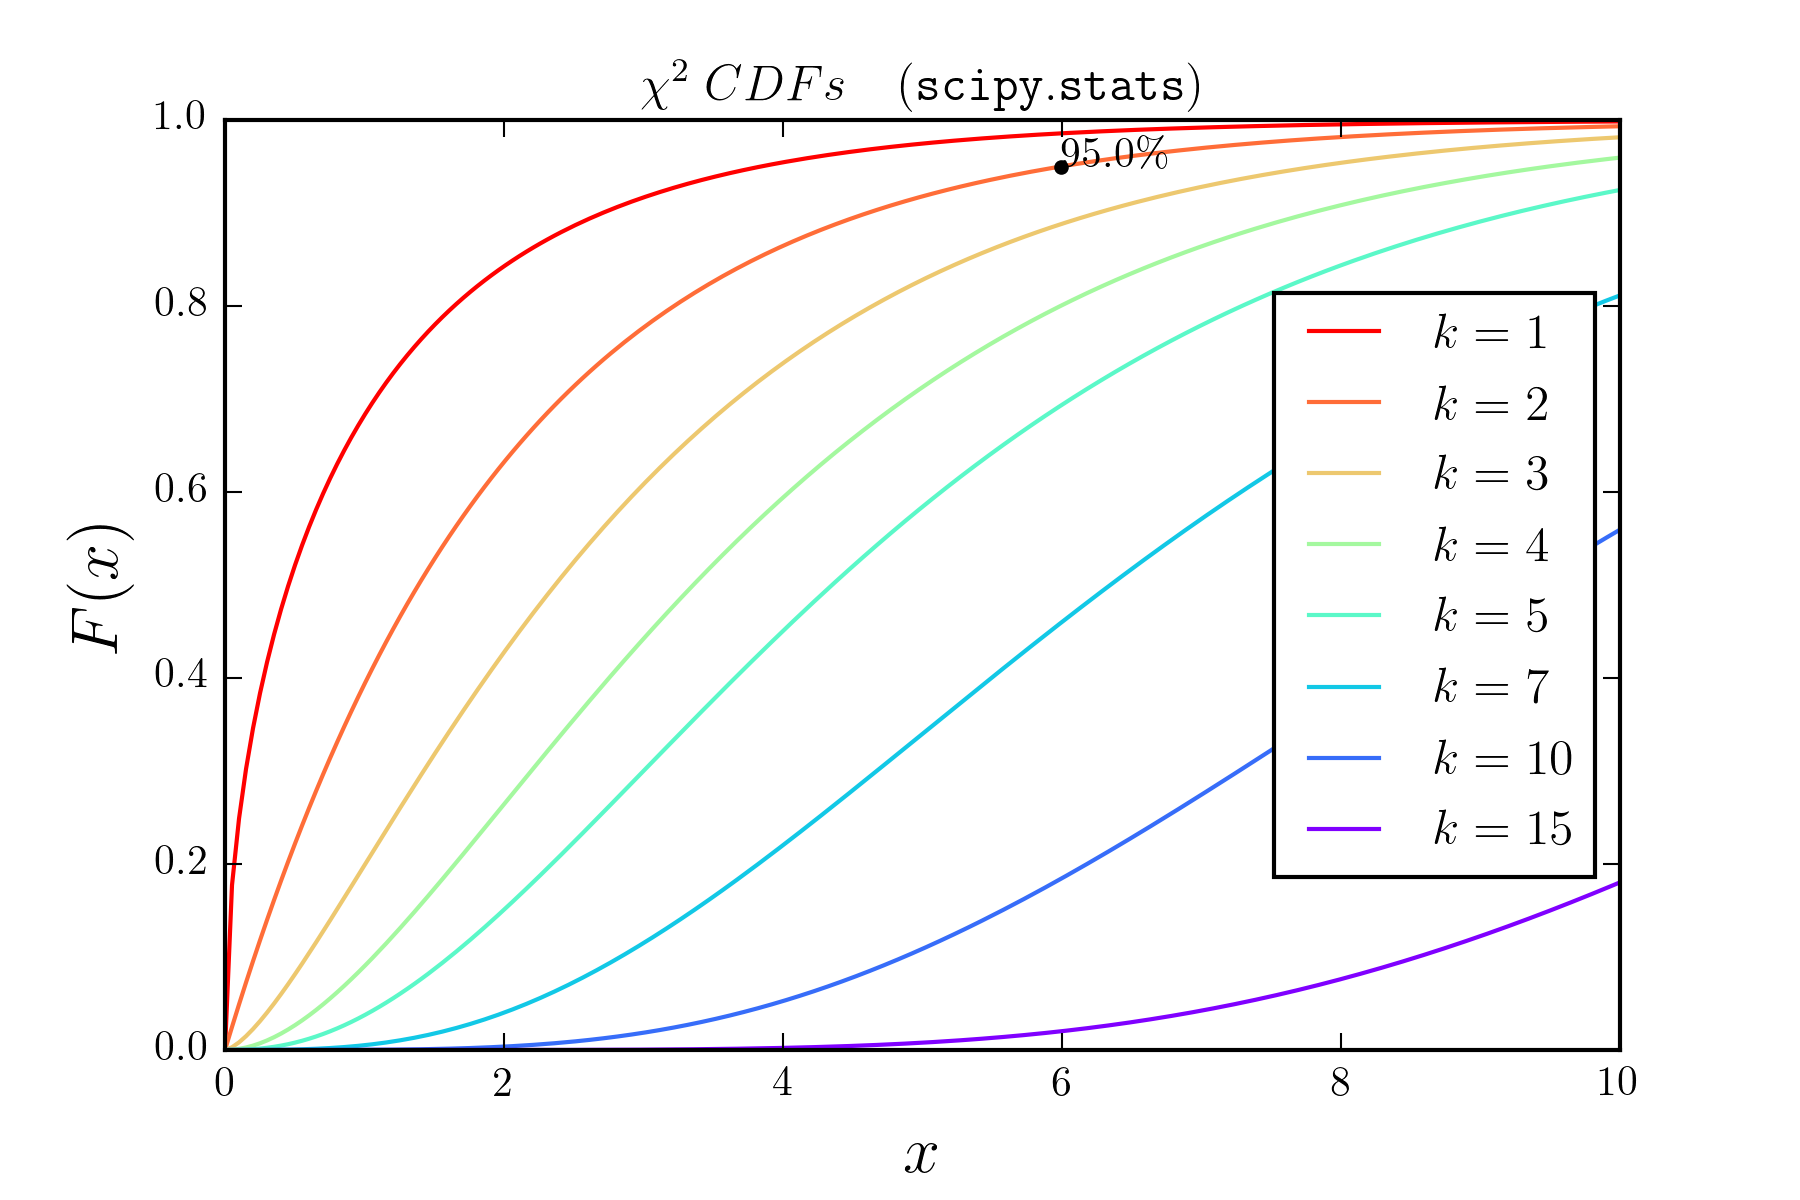
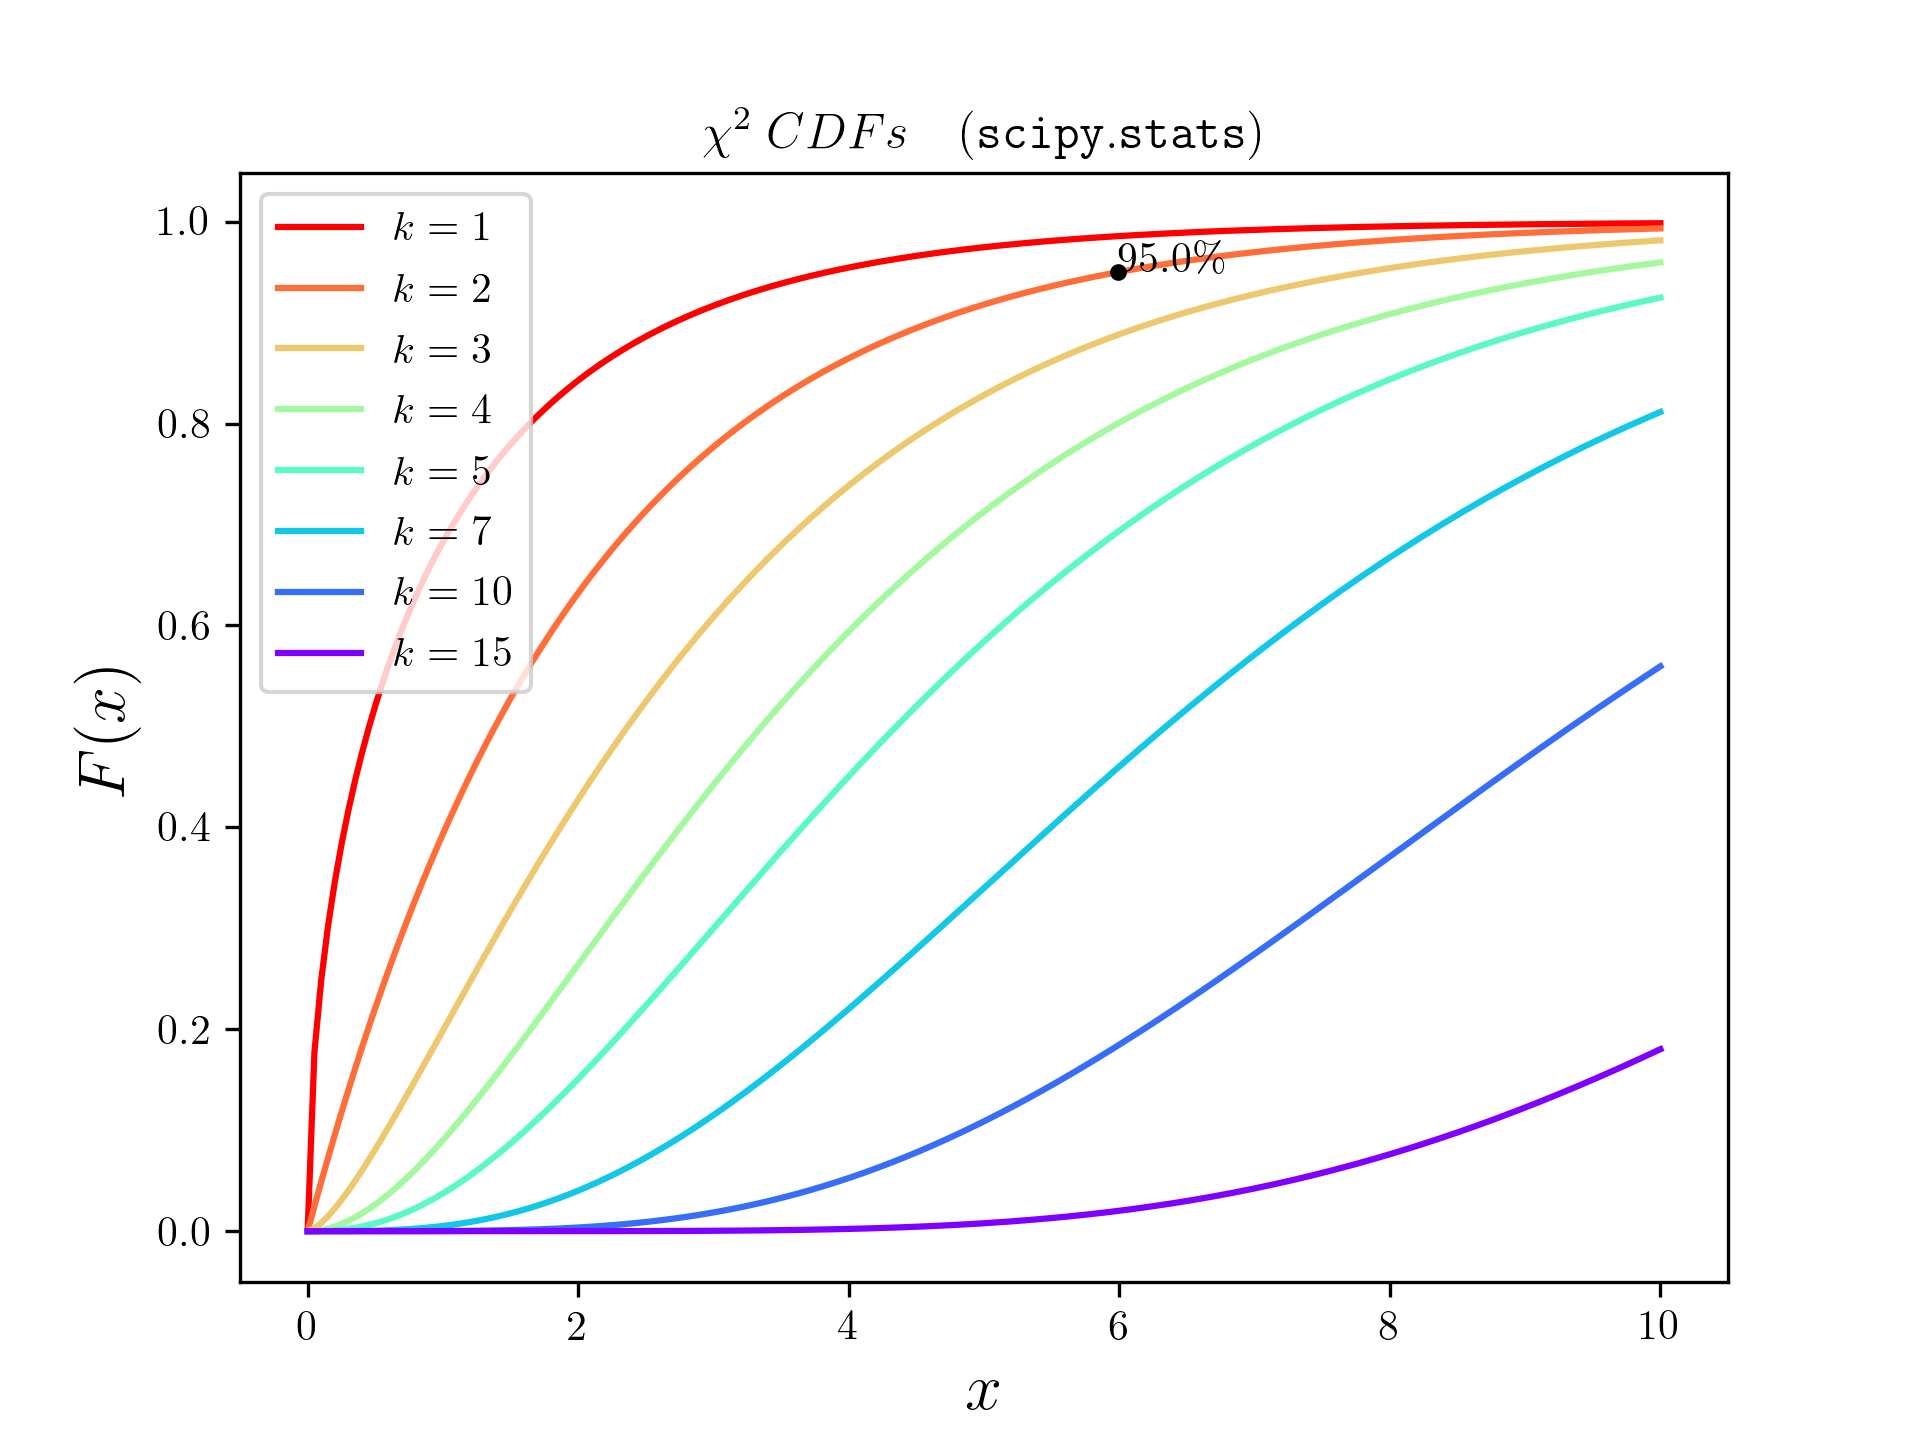
cleaning up chi-squared

diff --git a/chi_squared.py b/chi_squared.py
@@ -1,10 +1,6 @@
 # -*- coding: utf-8 -*-
 """
 script that explores the chi-squared distribution
-
-Created on Fri Jan 31 00:51:31 2020
-
-@author: Kedar
 """
 
 import numpy as np
@@ -13,17 +9,20 @@ from scipy.stats import chi2
 from scipy.optimize import fsolve
 from matplotlib import pyplot as plt
 from matplotlib import rc, cm
-plt.ioff()
 import webbrowser
 from distutils.spawn import find_executable
+
+plt.ioff()
 if find_executable('latex'):
     rc('text', usetex=True)
-#-----------------------------------------------------------------------------#
+
+
+# --------------------------------------------------------------------------- #
 def chi_squared_pdf(x, k):
-    '''
+    """
     this function computes discrete values of the pdf corresponding to the chi-
     squared distribution with k degrees of freedom for the values, x
-    '''
+    """
     # initialize an array of zeroes of the same length as x
     pdf = np.zeros_like(x)
     # run through the array and compute the value of the pdf
@@ -31,69 +30,77 @@ def chi_squared_pdf(x, k):
         # treat positive and negative values appropriately
         if x[i] > 0:
             # evaluate the pdf formula
-            pdf[i] = x[i]**(k/2 - 1)*np.exp(-x[i]/2)/(2**(k/2)*gamma(k/2))
+            pdf[i] = x[i] ** (k / 2 - 1) * np.exp(-x[i] / 2) / (
+                        2 ** (k / 2) * gamma(k / 2))
         else:
             # for negative values, the pdf is zero, the initialized value
             pass
     # return the probability values
     return pdf
-#-----------------------------------------------------------------------------#
+
+
+# --------------------------------------------------------------------------- #
 def chi_squared_cdf(x, k):
-    '''
+    """
     this function computes discrete values of the cdf corresponding to the chi-
-    squared distribution with k degrees of freedom for the values, x. this is 
-    the same as the regularized gamma function (i.e. the lower incomplete 
-    gamma function divided by the gamma function). recall: cdf(x) is the 
+    squared distribution with k degrees of freedom for the values, x. this is
+    the same as the regularized gamma function (i.e. the lower incomplete
+    gamma function divided by the gamma function). recall: cdf(x) is the
     probability that the random variable being modeled is less than or equal to
     x
-    '''
+    """
     # compute the value of the regularized gamma function. this is the cdf
-    cdf = gammainc(k/2, x/2)
+    cdf = gammainc(k / 2, x / 2)
     # return the cdf values
     return cdf
-#-----------------------------------------------------------------------------#
+
+
+# --------------------------------------------------------------------------- #
 def cdf_root_function(x, k, F_desired):
-    '''
-    this is a function for feeding to fsolve to find root, x, in the cdf of the 
-    chi-squared distribution with k degrees of freedom for a desired 
-    cummulative probability, F_desired
-    '''
+    """
+    this is a function for feeding to fsolve to find root, x, in the cdf of the
+    chi-squared distribution with k degrees of freedom for a desired
+    cumulative probability, F_desired
+    """
     # compute the root equation
     return chi_squared_cdf(x, k) - F_desired
-#-----------------------------------------------------------------------------#   
+
+
+# --------------------------------------------------------------------------- #
+# noinspection PyTypeChecker
 def main():
-    '''
+    """
     main routine
-    '''
+    """
     # create some abscissa values
     x = np.linspace(0, 10, 200)
-    
+
     # compute the pdfs of the chi-squared dist. for a few degrees of freedom
-    ks = [1,2,3,4,5,7,10,15]       # degrees of freedom to investigate
+    ks = [1, 2, 3, 4, 5, 7, 10, 15]  # degrees of freedom to investigate
     pdfs = [chi_squared_pdf(x, k) for k in ks]
-    
+
     # do the same thing using the the scipy function
     pdfs_scipy = [chi2.pdf(x, k) for k in ks]
-    
+
     # compute the cdfs of the chi-squared dist. for a few degrees of freedom
     cdfs = [chi_squared_cdf(x, k) for k in ks]
-    
+
     # do the same thing using the the scipy function
     cdfs_scipy = [chi2.cdf(x, k) for k in ks]
-    
+
     # find the right-hand-side constant for an F_desired-percentage confidence
     # interval for an uncorrelated 2D dataset
-    k = 2                       # dimensions of the ellipsoid
-    confidence_prob = 0.95      # desired confidence interval
+    k = 2  # dimensions of the ellipsoid
+    confidence_prob = 0.95  # desired confidence interval
     ellipse_rhs = fsolve(cdf_root_function, 0.0, args=(k, confidence_prob))[0]
-    
+
     # print the ellipsoid constant found
-    print('\n\t' + 60*'-')
+    print('\n\t' + 60 * '-')
     print('\n\tRHS constant computation: %d-dimensional ellipsoid' % k)
     print('\n\t  desired confidence:\t\t', confidence_prob)
     print('\n\t  RHS ellipsoid constant:\t', ellipse_rhs)
-    print('\n\t' + 60*'-')
-    
+    print('\n\t' + 60 * '-')
+
     # plot the distribution
     plot_name = 'chi-squared pdfs (mine)'
     auto_open = True
@@ -103,14 +110,14 @@ def main():
     colors = cm.rainbow_r(np.linspace(0, 1, len(ks)))
     # plotting
     for i in range(len(ks)):
-        plt.plot(x, pdfs[i], color=colors[i], label='$k='+str(ks[i])+'$')
+        plt.plot(x, pdfs[i], color=colors[i], label='$k=' + str(ks[i]) + '$')
     plt.xlabel('$x$', fontsize=the_fontsize)
     plt.ylabel('$p(x)$', fontsize=the_fontsize)
     plt.title('$\chi^2 \! -\! distributions \quad (subroutine)$')
     plt.legend(loc='best')
     plt.ylim(0, 0.5)
     # save plot and close
-    print('\n\t'+'saving final image...', end='')
+    print('\n\t' + 'saving final image...', end='')
     file_name = plot_name + '.png'
     plt.savefig(file_name, dpi=300)
     print('figure saved: ' + plot_name)
@@ -118,7 +125,7 @@ def main():
     # open the saved image, if desired
     if auto_open:
         webbrowser.open(file_name)
-    
+
     # plot the distribution
     plot_name = 'chi-squared pdfs (scipy)'
     auto_open = True
@@ -128,14 +135,15 @@ def main():
     colors = cm.rainbow_r(np.linspace(0, 1, len(ks)))
     # plotting
     for i in range(len(ks)):
-        plt.plot(x, pdfs_scipy[i], color=colors[i], label='$k='+str(ks[i])+'$')
+        plt.plot(x, pdfs_scipy[i], color=colors[i],
+                 label='$k=' + str(ks[i]) + '$')
     plt.xlabel('$x$', fontsize=the_fontsize)
     plt.ylabel('$p(x)$', fontsize=the_fontsize)
     plt.title('$\chi^2 \! -\! distributions \quad (\\mathtt{scipy.stats})$')
     plt.legend(loc='best')
     plt.ylim(0, 0.5)
     # save plot and close
-    print('\n\t'+'saving final image...', end='')
+    print('\n\t' + 'saving final image...', end='')
     file_name = plot_name + '.png'
     plt.savefig(file_name, dpi=300)
     print('figure saved: ' + plot_name)
@@ -143,7 +151,7 @@ def main():
     # open the saved image, if desired
     if auto_open:
         webbrowser.open(file_name)
-    
+
     # plot the distribution
     plot_name = 'chi-squared cdfs (mine)'
     auto_open = True
@@ -153,16 +161,17 @@ def main():
     colors = cm.rainbow_r(np.linspace(0, 1, len(ks)))
     # plotting
     for i in range(len(ks)):
-        plt.plot(x, cdfs[i], color=colors[i], label='$k='+str(ks[i])+'$')    
-    # plot the point that was found using fsolve
+        plt.plot(x, cdfs[i], color=colors[i], label='$k=' + str(ks[i]) + '$')
+        # plot the point that was found using fsolve
     plt.plot(ellipse_rhs, confidence_prob, 'k.')
-    plt.text(ellipse_rhs, confidence_prob, '$'+str(100*confidence_prob)+'\%$')
+    plt.text(ellipse_rhs, confidence_prob,
+             '$' + str(100 * confidence_prob) + '\%$')
     plt.xlabel('$x$', fontsize=the_fontsize)
     plt.ylabel('$F(x)$', fontsize=the_fontsize)
     plt.title('$\chi^2 \; CDFs \quad (subroutine)$')
     plt.legend(loc='best')
     # save plot and close
-    print('\n\t'+'saving final image...', end='')
+    print('\n\t' + 'saving final image...', end='')
     file_name = plot_name + '.png'
     plt.savefig(file_name, dpi=300)
     print('figure saved: ' + plot_name)
@@ -170,7 +179,7 @@ def main():
     # open the saved image, if desired
     if auto_open:
         webbrowser.open(file_name)
-    
+
     # plot the distribution
     plot_name = 'chi-squared cdfs (scipy)'
     auto_open = True
@@ -180,16 +189,18 @@ def main():
     colors = cm.rainbow_r(np.linspace(0, 1, len(ks)))
     # plotting
     for i in range(len(ks)):
-        plt.plot(x, cdfs_scipy[i], color=colors[i], label='$k='+str(ks[i])+'$')
+        plt.plot(x, cdfs_scipy[i], color=colors[i],
+                 label='$k=' + str(ks[i]) + '$')
     # plot the point that was found using fsolve
     plt.plot(ellipse_rhs, confidence_prob, 'k.')
-    plt.text(ellipse_rhs, confidence_prob, '$'+str(100*confidence_prob)+'\%$')
+    plt.text(ellipse_rhs, confidence_prob,
+             '$' + str(100 * confidence_prob) + '\%$')
     plt.xlabel('$x$', fontsize=the_fontsize)
     plt.ylabel('$F(x)$', fontsize=the_fontsize)
     plt.title('$\chi^2 \; CDFs \quad (\\mathtt{scipy.stats})$')
     plt.legend(loc='best')
     # save plot and close
-    print('\n\t'+'saving final image...', end='')
+    print('\n\t' + 'saving final image...', end='')
     file_name = plot_name + '.png'
     plt.savefig(file_name, dpi=300)
     print('figure saved: ' + plot_name)
@@ -197,7 +208,9 @@ def main():
     # open the saved image, if desired
     if auto_open:
         webbrowser.open(file_name)
-#-----------------------------------------------------------------------------#
+
+
+# --------------------------------------------------------------------------- #
 # run if called directly
 if __name__ == '__main__':
     main()

diff --git a/elliptic_envelope.py b/elliptic_envelope.py
@@ -22,7 +22,7 @@ from sklearn.covariance import EllipticEnvelope
 from distutils.spawn import find_executable
 if find_executable('latex'):
     rc('text', usetex=True)
-#-----------------------------------------------------------------------------#
+# -------------------------------------------------------------------------- #
 def compute_rotation_matrix(theta):
     '''
     returns the 2x2 matrix that rotates points in the x-y plane 

diff --git a/ten_armed.py b/ten_armed.py
@@ -1,0 +1,4 @@
+"""
+script for implementing a 10-armed bandit problem. based on chapter two of
+sutton and barto
+"""
